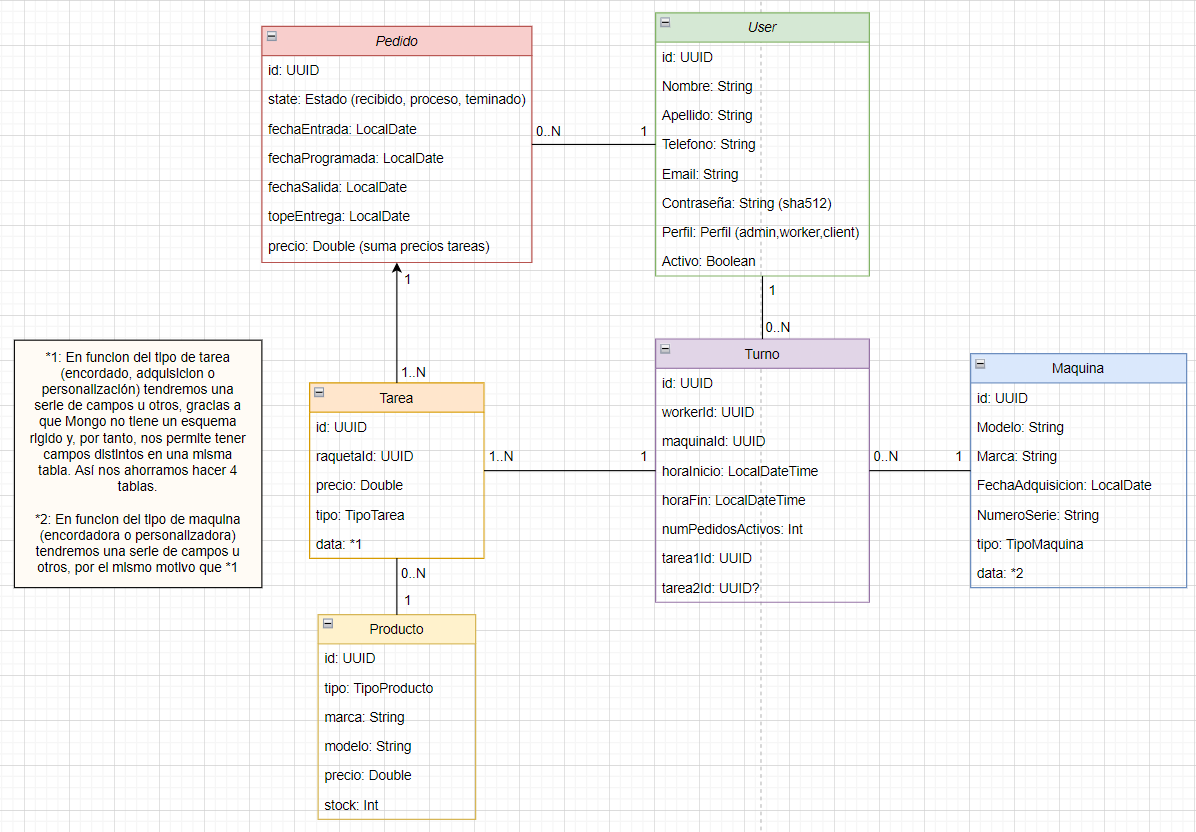
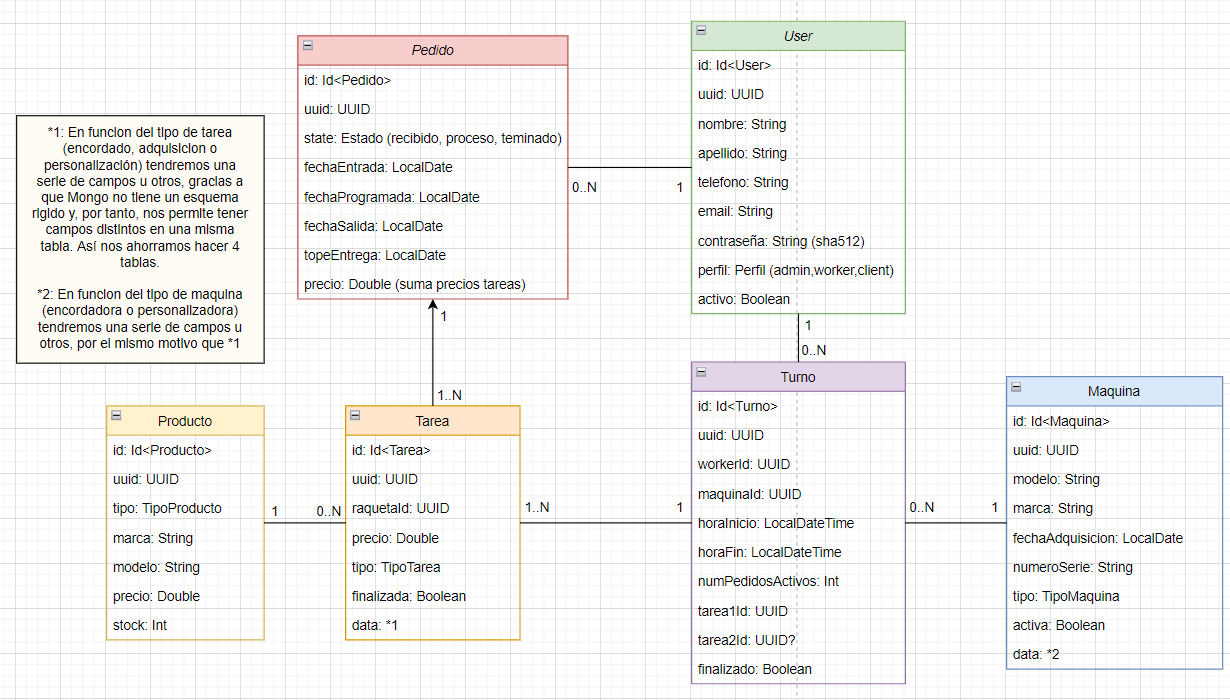
modificacion del diagrama, modelos y creacion del controlador de la BD.
Tambien se han empezado los repos de users

diff --git a/TennisLab-Mongo/src/main/kotlin/repositories/user/UserRepository.kt b/TennisLab-Mongo/src/main/kotlin/repositories/user/UserRepository.kt
@@ -1,4 +1,56 @@
 package repositories.user
 
-//class UserRepository: /*IUserRepository<>*/ {
-//}
+import db.DBManager
+import kotlinx.coroutines.delay
+import kotlinx.coroutines.flow.flow
+import models.user.User
+import models.user.UserErrorNotFound
+import models.user.UserResult
+import models.user.UserSuccess
+import mu.KotlinLogging
+import org.litote.kmongo.Id
+import org.litote.kmongo.coroutine.toList
+
+private val logger = KotlinLogging.logger {}
+
+class UserRepository: IUserRepository<Id<User>> {
+    override suspend fun findAllRealTime() = flow {
+        do {
+            emit(DBManager.database.getCollection<User>().find().publisher.toList())
+            delay(1000)
+        } while (true)
+    }
+
+    override suspend fun findAll(): UserResult<List<User>> {
+        val users: List<User> = DBManager.database.getCollection<User>().find().publisher.toList()
+        return if (users.isEmpty()) {
+            UserErrorNotFound("Could not find any users.")
+        } else {
+            UserSuccess(200, users)
+        }
+    }
+
+    override suspend fun save(entity: User): UserResult<User> {
+        TODO("Not yet implemented")
+    }
+
+    override suspend fun update(entity: User): UserResult<User> {
+        TODO("Not yet implemented")
+    }
+
+    override suspend fun delete(id: Id<User>): UserResult<User> {
+        TODO("Not yet implemented")
+    }
+
+    override suspend fun findById(id: Id<User>): UserResult<User> {
+        logger.debug { "findById($id)" }
+        val user = DBManager.database.getCollection<User>()
+            .findOneById(id)
+
+        return if (user != null) {
+            UserSuccess(200, user)
+        } else {
+            UserErrorNotFound("User with id $id not found.")
+        }
+    }
+}

diff --git a/TennisLab-Mongo/src/main/kotlin/db/DBManager.kt b/TennisLab-Mongo/src/main/kotlin/db/DBManager.kt
@@ -1,0 +1,43 @@
+package db
+
+import mu.KotlinLogging
+import org.litote.kmongo.coroutine.CoroutineClient
+import org.litote.kmongo.coroutine.CoroutineDatabase
+import org.litote.kmongo.coroutine.coroutine
+import org.litote.kmongo.reactivestreams.KMongo
+import java.io.File
+import java.io.FileInputStream
+import java.util.*
+
+private val logger = KotlinLogging.logger {}
+object DBManager {
+    private var mongoClient: CoroutineClient
+    var database: CoroutineDatabase
+
+    // configuraciones para mongoAtlas aqui
+    val properties = readProperties()
+    private val MONGO_TYPE = properties.getProperty("MONGO_TYPE")
+    private val HOST = properties.getProperty("HOST")
+    private val PORT = properties.getProperty("PORT")
+    private val DATABASE = properties.getProperty("DATABASE")
+    private val USERNAME = properties.getProperty("USERNAME")
+    private val PASSWORD = properties.getProperty("PASSWORD")
+    private val OPTIONS = properties.getProperty("OPTIONS")
+
+    private val MONGO_URI = "$MONGO_TYPE$USERNAME:$PASSWORD@$HOST/$DATABASE"
+    init {
+        logger.debug("Initializing connection to MongoDB")
+        println("Initializing connection to MongoDB : $MONGO_URI$OPTIONS")
+        mongoClient = KMongo.createClient("$MONGO_URI$OPTIONS").coroutine
+        database = mongoClient.getDatabase(DATABASE)
+    }
+}
+
+fun readProperties(): Properties {
+    val properties = Properties()
+    properties.load(
+        FileInputStream("${System.getProperty("user.dir")}${File.separator}" +
+            "src${File.separator}main${File.separator}resources${File.separator}config.properties")
+    )
+    return properties
+}

diff --git a/TennisLab-Mongo/src/main/kotlin/models/turno/Turno.kt b/TennisLab-Mongo/src/main/kotlin/models/turno/Turno.kt
@@ -1,7 +1,10 @@
 package models.turno
 
+import kotlinx.serialization.Contextual
 import kotlinx.serialization.Serializable
-import kotlinx.serialization.Serializer
+import org.bson.codecs.pojo.annotations.BsonId
+import org.litote.kmongo.Id
+import org.litote.kmongo.newId
 import serializers.LocalDateTimeSerializer
 import serializers.UUIDSerializer
 import java.time.LocalDateTime
@@ -13,6 +16,8 @@ import java.util.UUID
  */
 @Serializable
 data class Turno(
+    @BsonId @Contextual
+    val id: Id<Turno> = newId(),
     @Serializable(with = UUIDSerializer::class)
     val uuid: UUID = UUID.randomUUID(),
     @Serializable(with = UUIDSerializer::class)
@@ -28,6 +33,5 @@ data class Turno(
     val tarea1Id: UUID,
     @Serializable(with = UUIDSerializer::class)
     val tarea2Id: UUID?,
-    val hasFinished: Boolean
-
+    val finalizado: Boolean
 )

diff --git a/TennisLab-Mongo/src/main/kotlin/models/pedido/Pedido.kt b/TennisLab-Mongo/src/main/kotlin/models/pedido/Pedido.kt
@@ -1,6 +1,10 @@
 package models.pedido
 
+import kotlinx.serialization.Contextual
 import kotlinx.serialization.Serializable
+import org.bson.codecs.pojo.annotations.BsonId
+import org.litote.kmongo.Id
+import org.litote.kmongo.newId
 import serializers.LocalDateSerializer
 import serializers.UUIDSerializer
 import java.time.LocalDate
@@ -12,6 +16,8 @@ import java.util.UUID
  */
 @Serializable
 data class Pedido(
+    @BsonId @Contextual
+    val id: Id<Pedido> = newId(),
     @Serializable(with = UUIDSerializer::class)
     val uuid: UUID = UUID.randomUUID(),
     val state: PedidoState,

diff --git a/TennisLab-Mongo/src/main/kotlin/models/maquina/Maquina.kt b/TennisLab-Mongo/src/main/kotlin/models/maquina/Maquina.kt
@@ -1,6 +1,10 @@
 package models.maquina
 
+import kotlinx.serialization.Contextual
 import kotlinx.serialization.Serializable
+import org.bson.codecs.pojo.annotations.BsonId
+import org.litote.kmongo.Id
+import org.litote.kmongo.newId
 import serializers.LocalDateSerializer
 import serializers.UUIDSerializer
 import java.time.LocalDate
@@ -14,6 +18,8 @@ import java.util.*
  */
 @Serializable
 data class Maquina(
+    @BsonId @Contextual
+    val id: Id<Maquina> = newId(),
     @Serializable(with = UUIDSerializer::class)
     val uuid: UUID = UUID.randomUUID(),
     val modelo: String,

diff --git a/TennisLab-Mongo/src/main/kotlin/models/tarea/Tarea.kt b/TennisLab-Mongo/src/main/kotlin/models/tarea/Tarea.kt
@@ -1,6 +1,10 @@
 package models.tarea
 
+import kotlinx.serialization.Contextual
 import kotlinx.serialization.Serializable
+import org.bson.codecs.pojo.annotations.BsonId
+import org.litote.kmongo.Id
+import org.litote.kmongo.newId
 import serializers.UUIDSerializer
 import java.util.UUID
 
@@ -12,6 +16,8 @@ import java.util.UUID
  */
 @Serializable
 data class Tarea(
+    @BsonId @Contextual
+    val id: Id<Tarea> = newId(),
     @Serializable(with = UUIDSerializer::class)
     val uuid: UUID = UUID.randomUUID(),
     @Serializable(with = UUIDSerializer::class)

diff --git a/TennisLab-Mongo/src/main/kotlin/models/user/User.kt b/TennisLab-Mongo/src/main/kotlin/models/user/User.kt
@@ -1,6 +1,10 @@
 package models.user
 
+import kotlinx.serialization.Contextual
 import kotlinx.serialization.Serializable
+import org.bson.codecs.pojo.annotations.BsonId
+import org.litote.kmongo.Id
+import org.litote.kmongo.newId
 import serializers.UUIDSerializer
 import java.util.*
 
@@ -10,6 +14,8 @@ import java.util.*
  */
 @Serializable
 data class User(
+    @BsonId @Contextual
+    val id: Id<User> = newId(),
     @Serializable(with = UUIDSerializer::class)
     val uuid: UUID = UUID.randomUUID(),
     val nombre: String,

diff --git a/TennisLab-Mongo/src/main/kotlin/models/producto/Producto.kt b/TennisLab-Mongo/src/main/kotlin/models/producto/Producto.kt
@@ -1,11 +1,17 @@
 package models.producto
 
+import kotlinx.serialization.Contextual
 import kotlinx.serialization.Serializable
+import org.bson.codecs.pojo.annotations.BsonId
+import org.litote.kmongo.Id
+import org.litote.kmongo.newId
 import serializers.UUIDSerializer
 import java.util.UUID
 
 @Serializable
 data class Producto(
+    @BsonId @Contextual
+    val id: Id<Producto> = newId(),
     @Serializable(with = UUIDSerializer::class)
     val uuid: UUID = UUID.randomUUID(),
     val tipo: TipoProducto,

diff --git a/TennisLab-Mongo/src/main/kotlin/repositories/user/IUserRepository.kt b/TennisLab-Mongo/src/main/kotlin/repositories/user/IUserRepository.kt
@@ -6,7 +6,7 @@ import models.user.UserResult
 
 interface IUserRepository<ID> {
     suspend fun findAllRealTime(): Flow<List<User>>
-    fun findAll(): UserResult<Flow<User>>
+    suspend fun findAll(): UserResult<List<User>>
     suspend fun findById(id: ID): UserResult<User>
     suspend fun save(entity: User): UserResult<User>
     suspend fun update(entity: User): UserResult<User>
